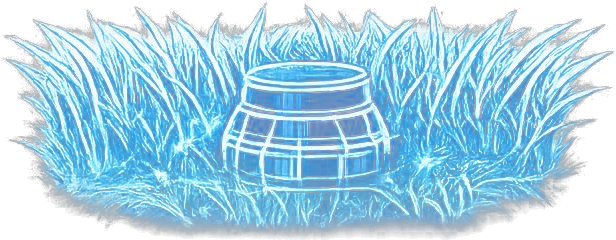
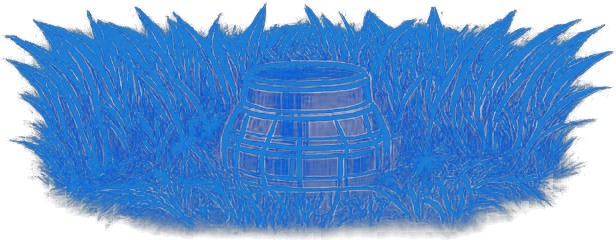
fix: beregner blue tone to match other widgets + active -2px left

diff --git a/www/dashboard.html b/www/dashboard.html
@@ -555,7 +555,7 @@ html, body {
       <img id="beregner-base-img" src="img/dashboard/beregner-inactive.png" alt="Beregner"
            style="position:absolute;bottom:0;left:0;width:160px;z-index:0;transition:opacity 0.4s;">
       <img id="beregner-active-img" src="img/dashboard/beregner-active.png" alt="Beregner aktiv"
-           style="position:absolute;bottom:-26px;left:-15px;width:192px;z-index:1;opacity:0;transition:opacity 0.4s;">
+           style="position:absolute;bottom:-26px;left:-17px;width:192px;z-index:1;opacity:0;transition:opacity 0.4s;">
     </div>
     <div class="resize-handle"></div>
   </div>